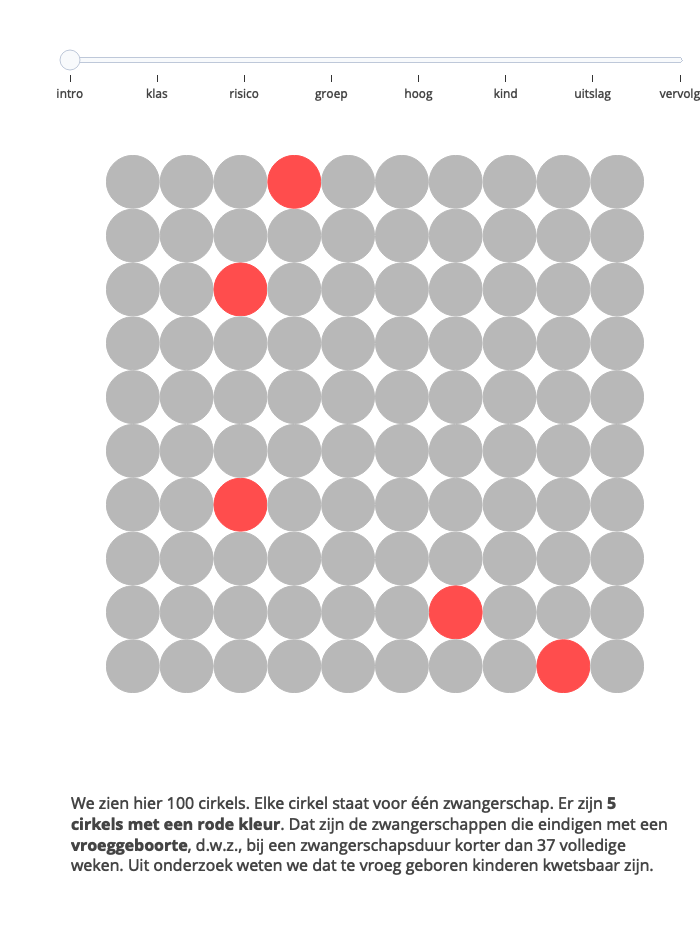
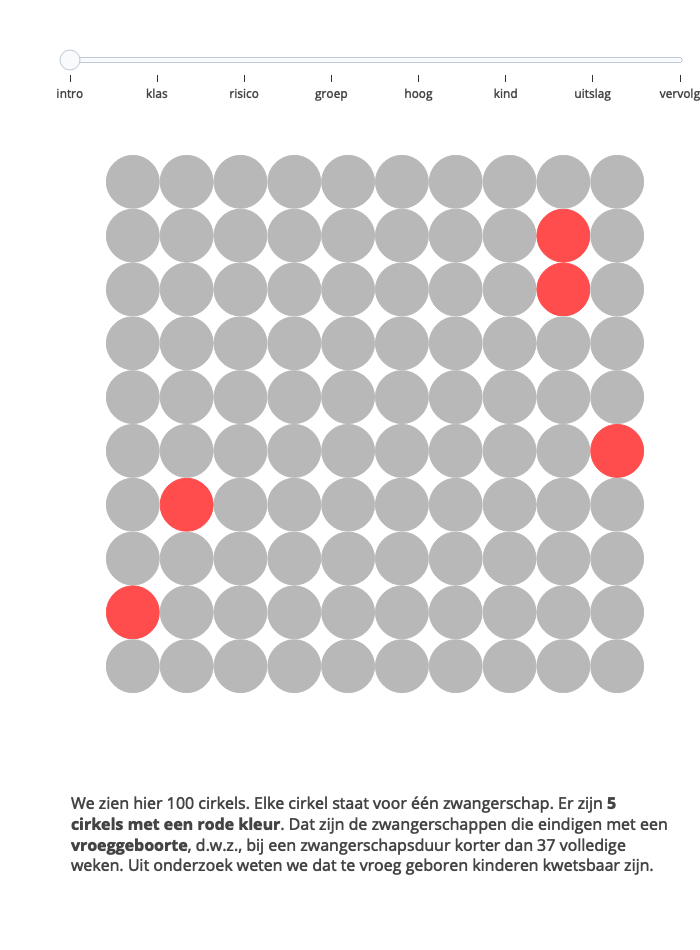
Update README

diff --git a/README.md b/README.md
@@ -14,9 +14,8 @@ method are to communicate
 
 1.  the absolute predicted probability of some future event;
 2.  the position of the predicted probability relative to other people;
-3.  the uncertainty of the predicted probability;
-4.  the changes in probability of “doing nothing” versus “doing
-    something”.
+3.  the positive predictive value of the prediction;
+4.  the effect of “doing nothing” versus “doing something”.
 
 Not every goal has yet been achieved. Most of the developments in the
 present package relate to points 2 and 3.
